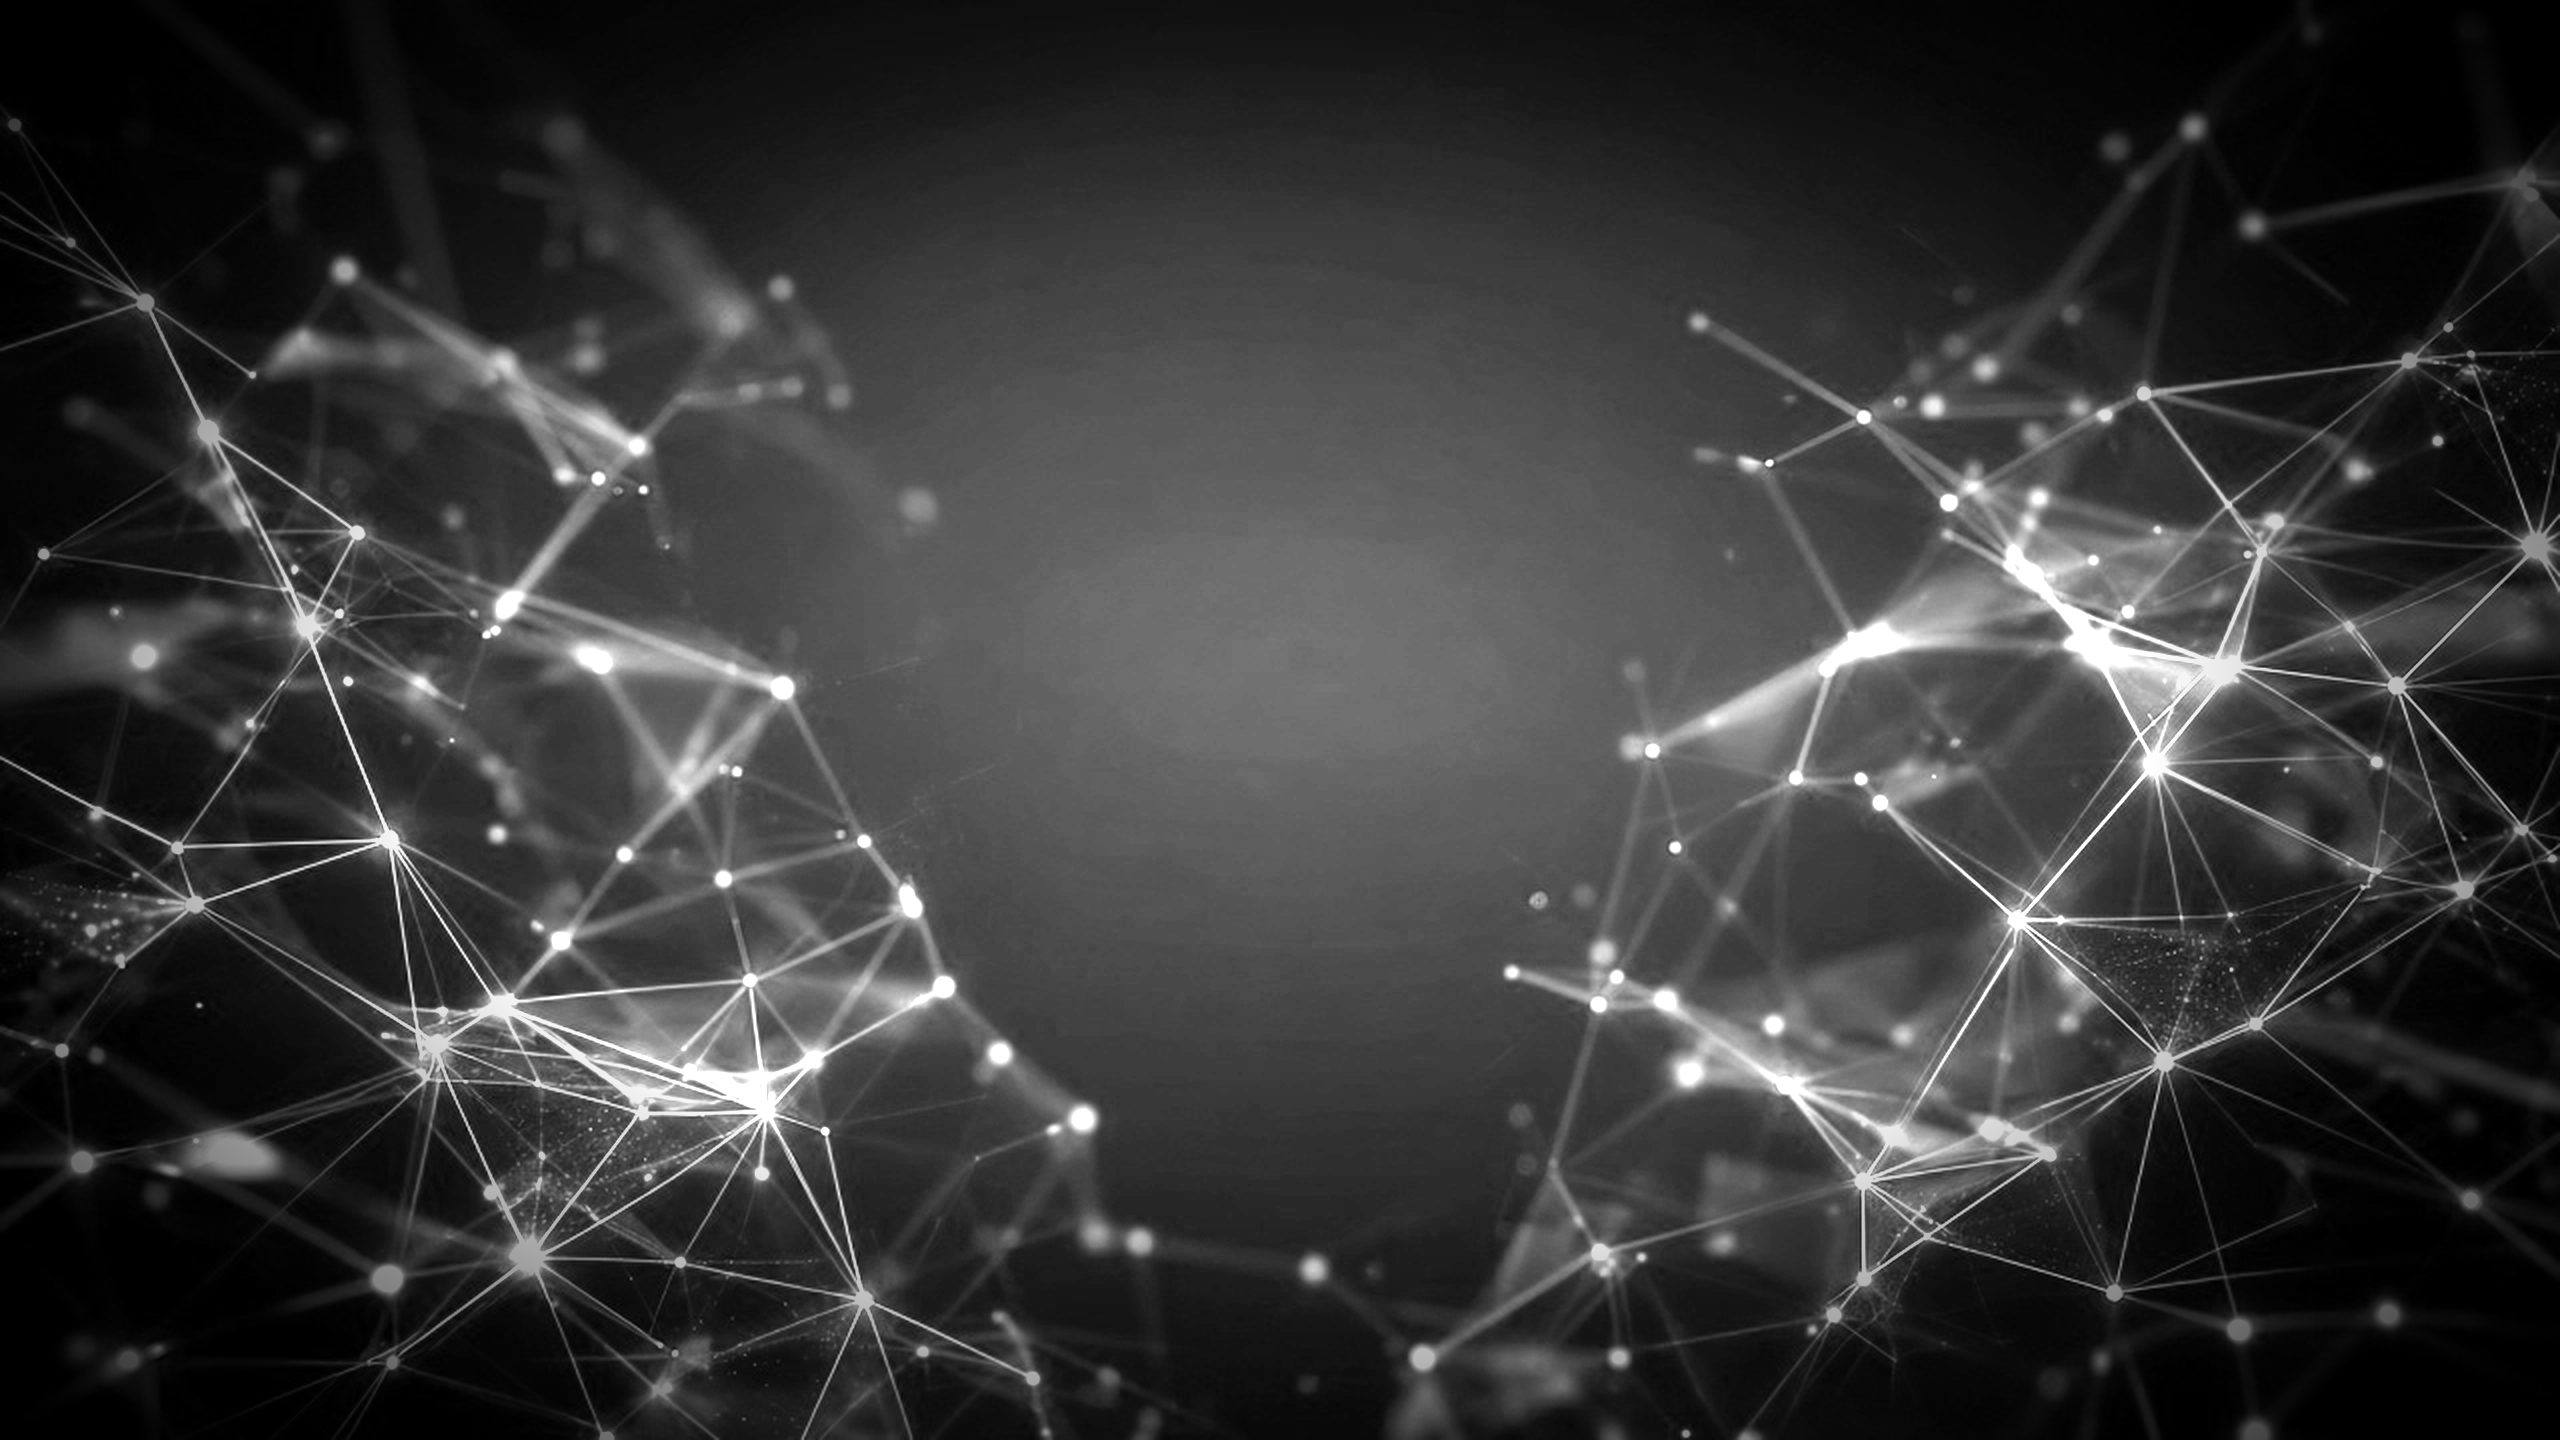
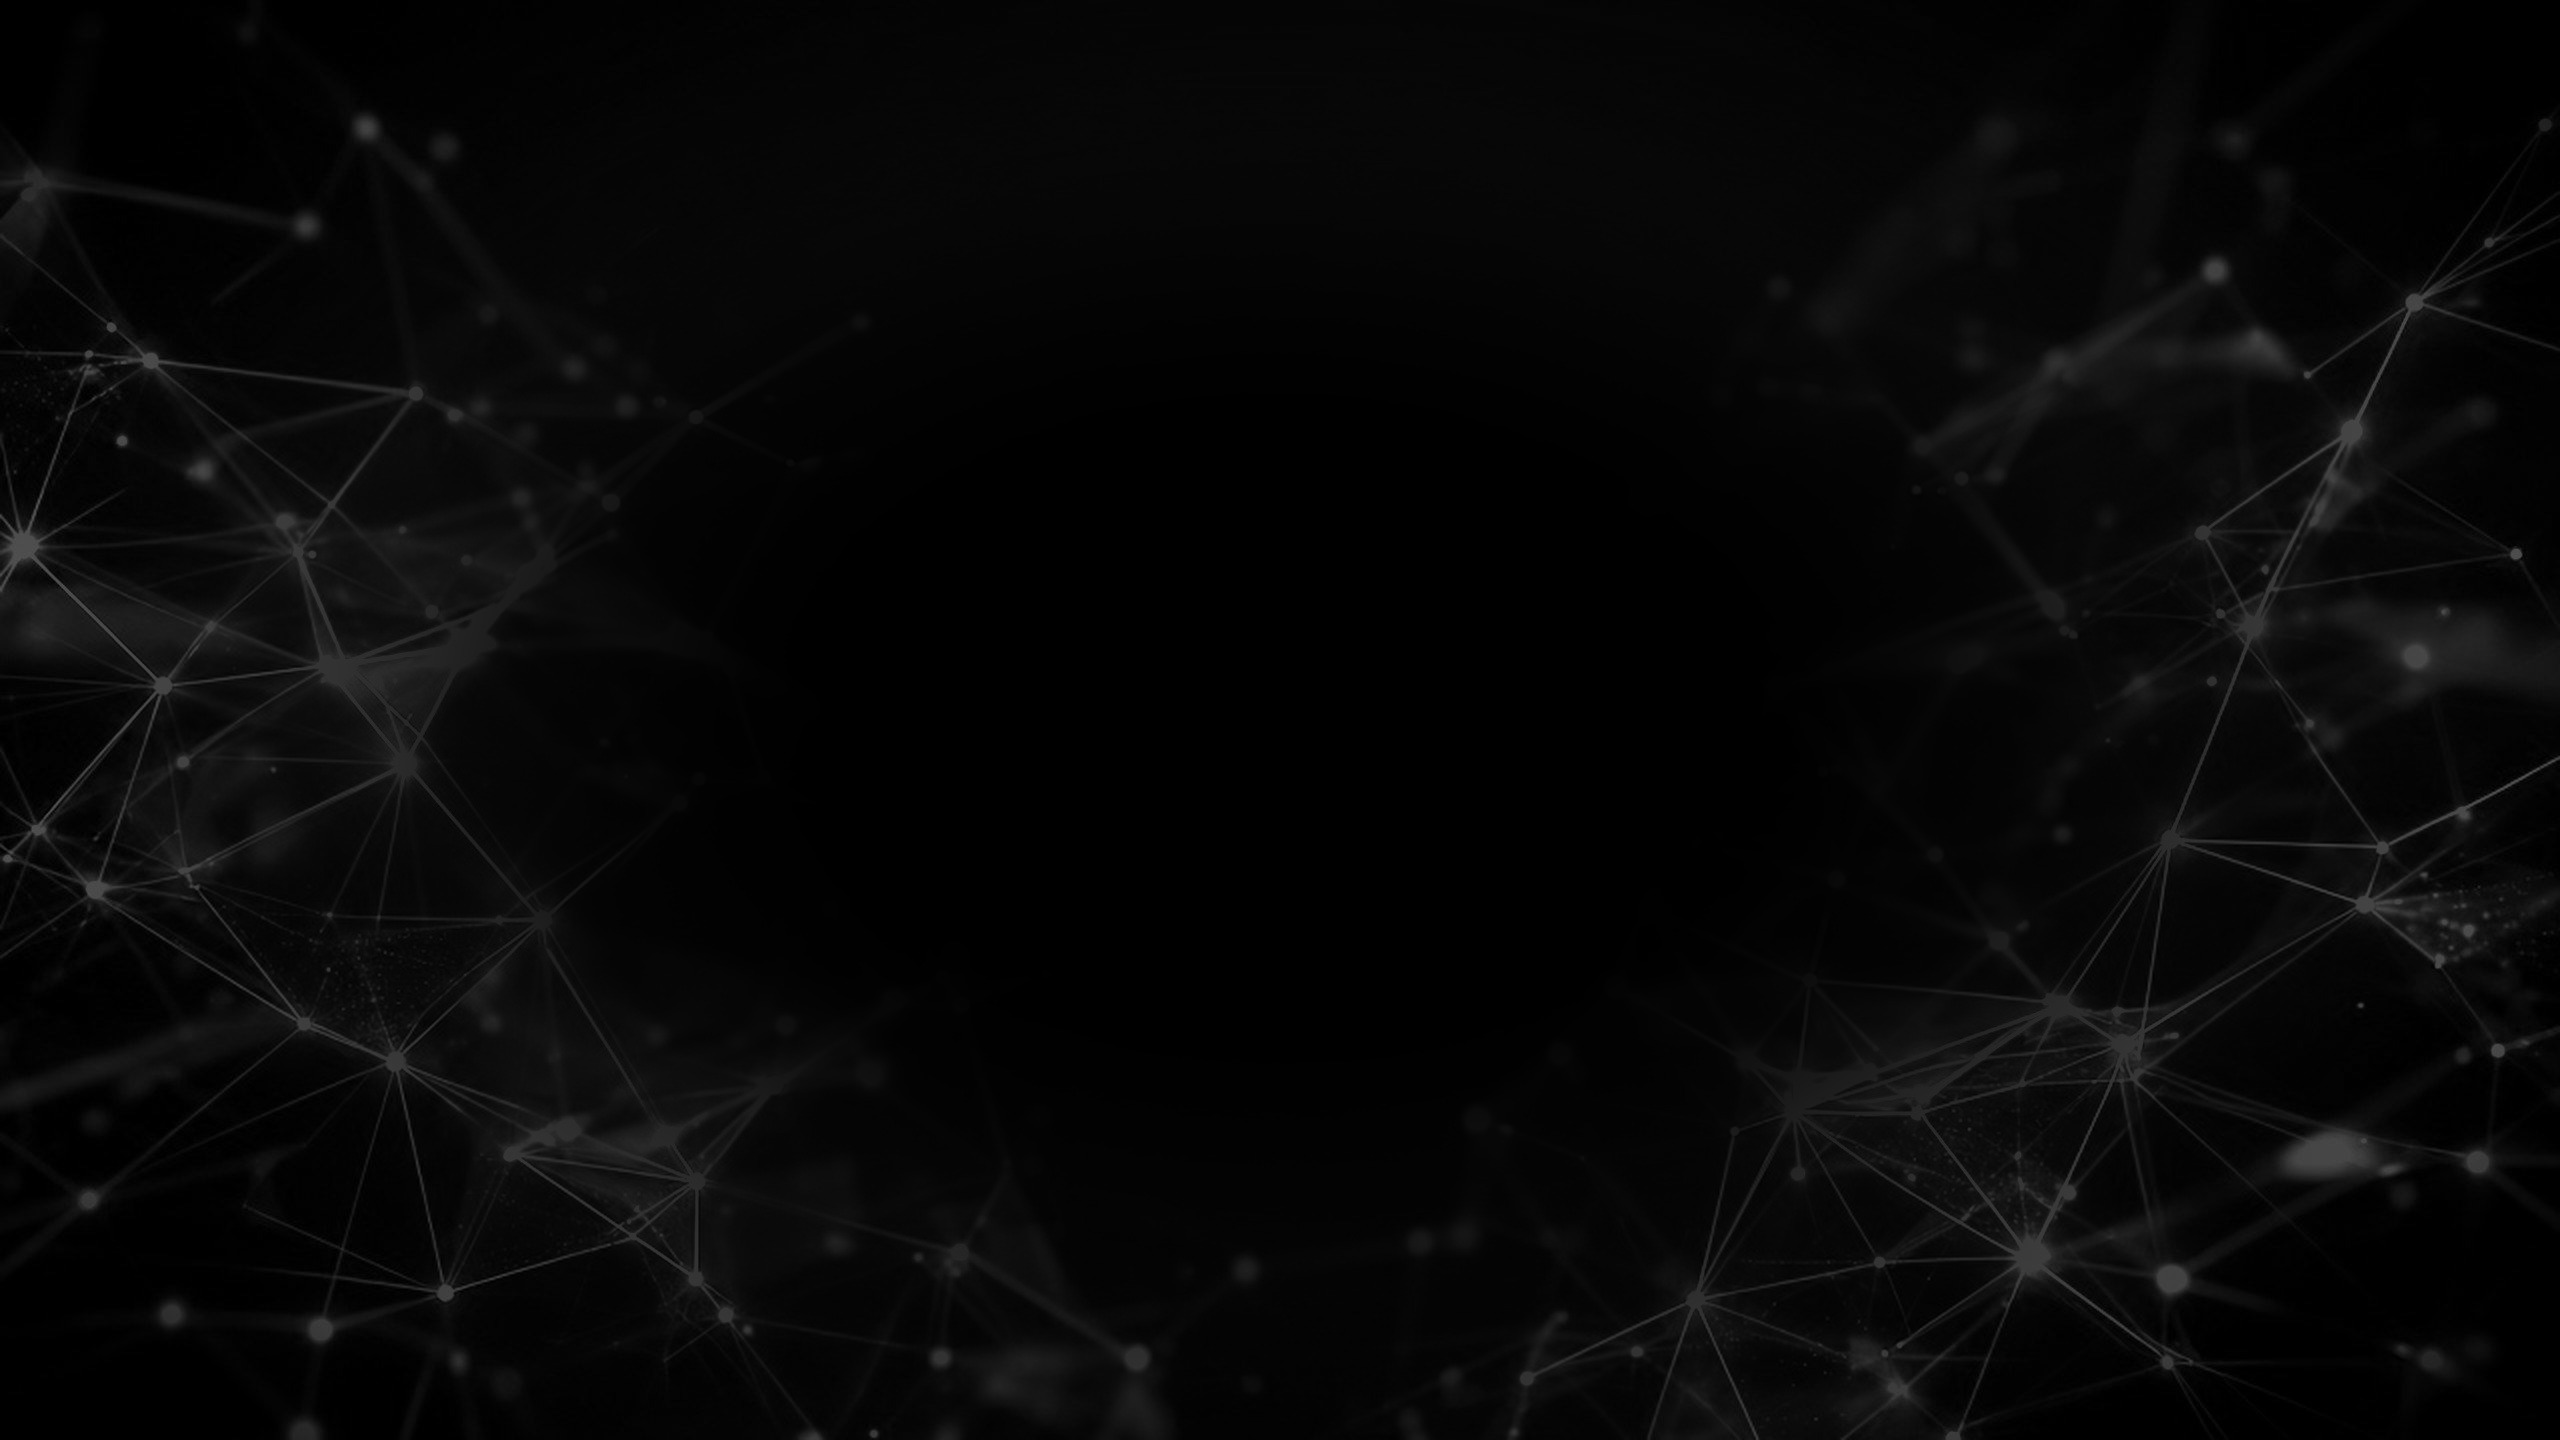
Welcome: pure-black centre behind Dahju (no glow); network only at edges

diff --git a/screens/mobile-tour.html b/screens/mobile-tour.html
@@ -23,24 +23,22 @@
       background: #000 url('bg-welcome.jpg') center / cover no-repeat;
       padding: calc(24px + env(safe-area-inset-top)) 24px calc(28px + env(safe-area-inset-bottom)); text-align: center;
       position: relative; }
-    /* Heavy dark overlay + centred vignette so Dahju / orange stand out; network lights stay faintly visible */
+    /* No centre glow: bg-welcome.jpg is baked near-black in the centre; flat veil only */
     body::before {
       content: "";
       position: fixed; inset: 0; pointer-events: none; z-index: 0;
-      background:
-        radial-gradient(ellipse at center, rgba(0,0,0,0.55) 0%, rgba(0,0,0,0.75) 50%, rgba(0,0,0,0.95) 100%),
-        rgba(0,0,0,0.45);
+      background: rgba(0,0,0,0.2);
     }
     main, footer { position: relative; z-index: 1; }
     main { flex: 1; display: flex; flex-direction: column; align-items: center; justify-content: center; width: 100%; max-width: 520px; }
-    .brand { font-weight: 700; font-size: clamp(56px, 16vw, 96px); line-height: 1; letter-spacing: -0.01em; color: #fff; text-shadow: 0 2px 24px rgba(0,0,0,0.6); }
+    .brand { font-weight: 700; font-size: clamp(56px, 16vw, 96px); line-height: 1; letter-spacing: -0.01em; color: #fff; }
     .brand .ast { color: var(--or); }
-    .tag { font-weight: 400; color: var(--or); font-size: clamp(17px, 4.6vw, 24px); margin-top: 16px; text-shadow: 0 1px 10px rgba(0,0,0,0.8); }
+    .tag { font-weight: 400; color: var(--or); font-size: clamp(17px, 4.6vw, 24px); margin-top: 16px; }
     .btn { display: inline-flex; align-items: center; justify-content: center; width: min(100%, 340px); min-height: 54px; margin-top: 44px;
       border-radius: 12px; background: var(--or); color: #fff; font-weight: 700; font-size: 17px; text-decoration: none;
-      box-shadow: 0 8px 22px rgba(240,110,30,0.35); transition: background .15s; }
+      transition: background .15s; }
     .btn:hover, .btn:focus-visible { background: #FF8236; }
-    .note { color: #fff; font-size: 14px; margin-top: 16px; text-shadow: 0 1px 8px rgba(0,0,0,0.8); }
+    .note { color: #fff; font-size: 14px; margin-top: 16px; }
     footer { display: flex; align-items: center; justify-content: center; gap: 10px; color: #fff; font-size: 13px; letter-spacing: 0.04em; }
     footer img { height: 24px; width: auto; display: block; }
   </style>
